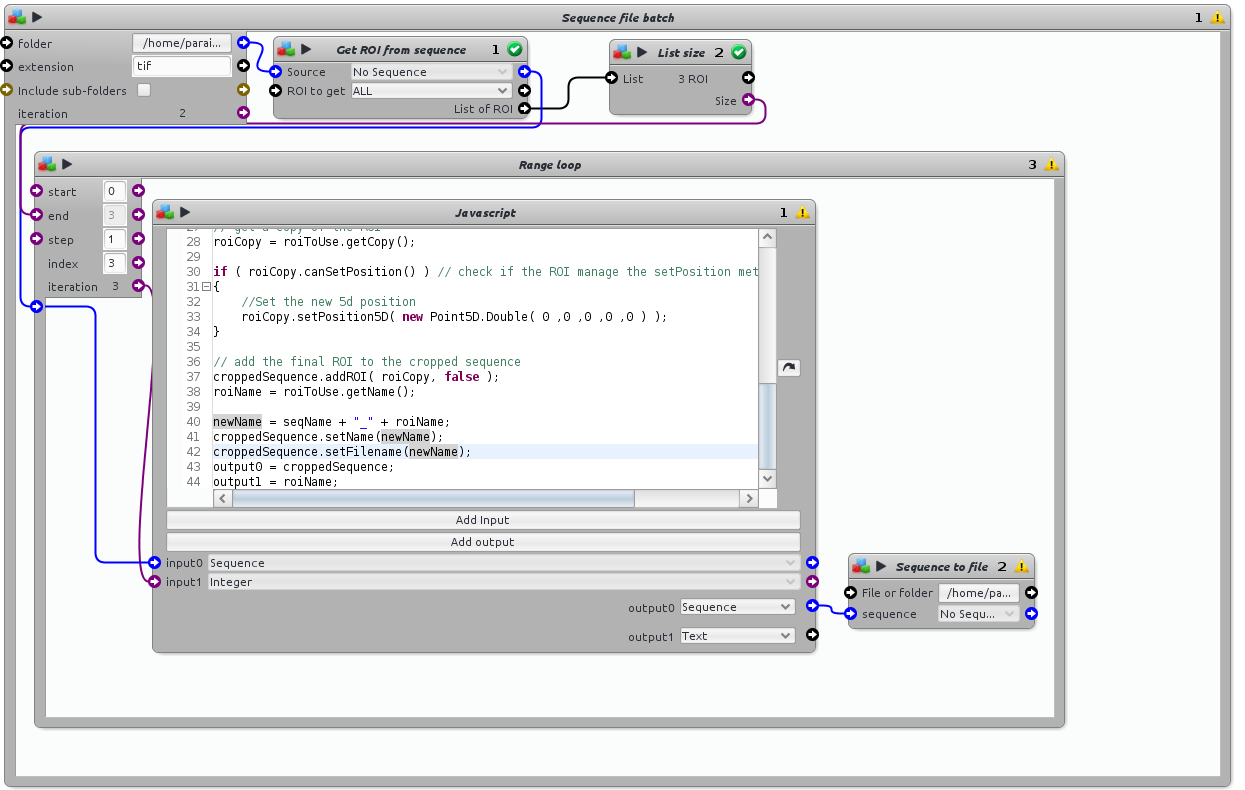
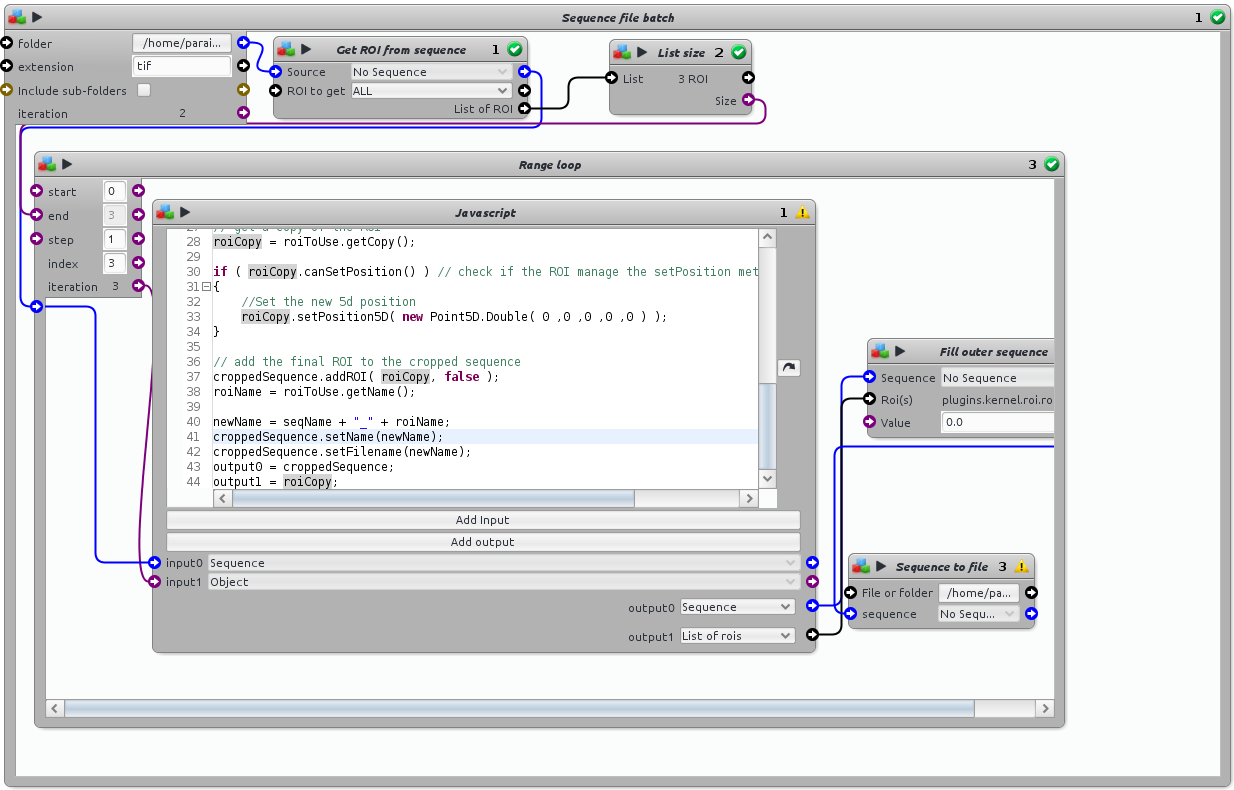
Add fill area outside of the ROI with 0.

diff --git a/icy-protocols/protocol-scripts/02/02_crop_image_to_roi_copy_over_roi_v1_script1.js b/icy-protocols/protocol-scripts/02/02_crop_image_to_roi_copy_over_roi_v1_script1.js
@@ -41,4 +41,4 @@ newName = seqName + "_" + roiName;
 croppedSequence.setName(newName);
 croppedSequence.setFilename(newName);
 output0 = croppedSequence;
-output1 = roiName;
+output1 = roiCopy;
